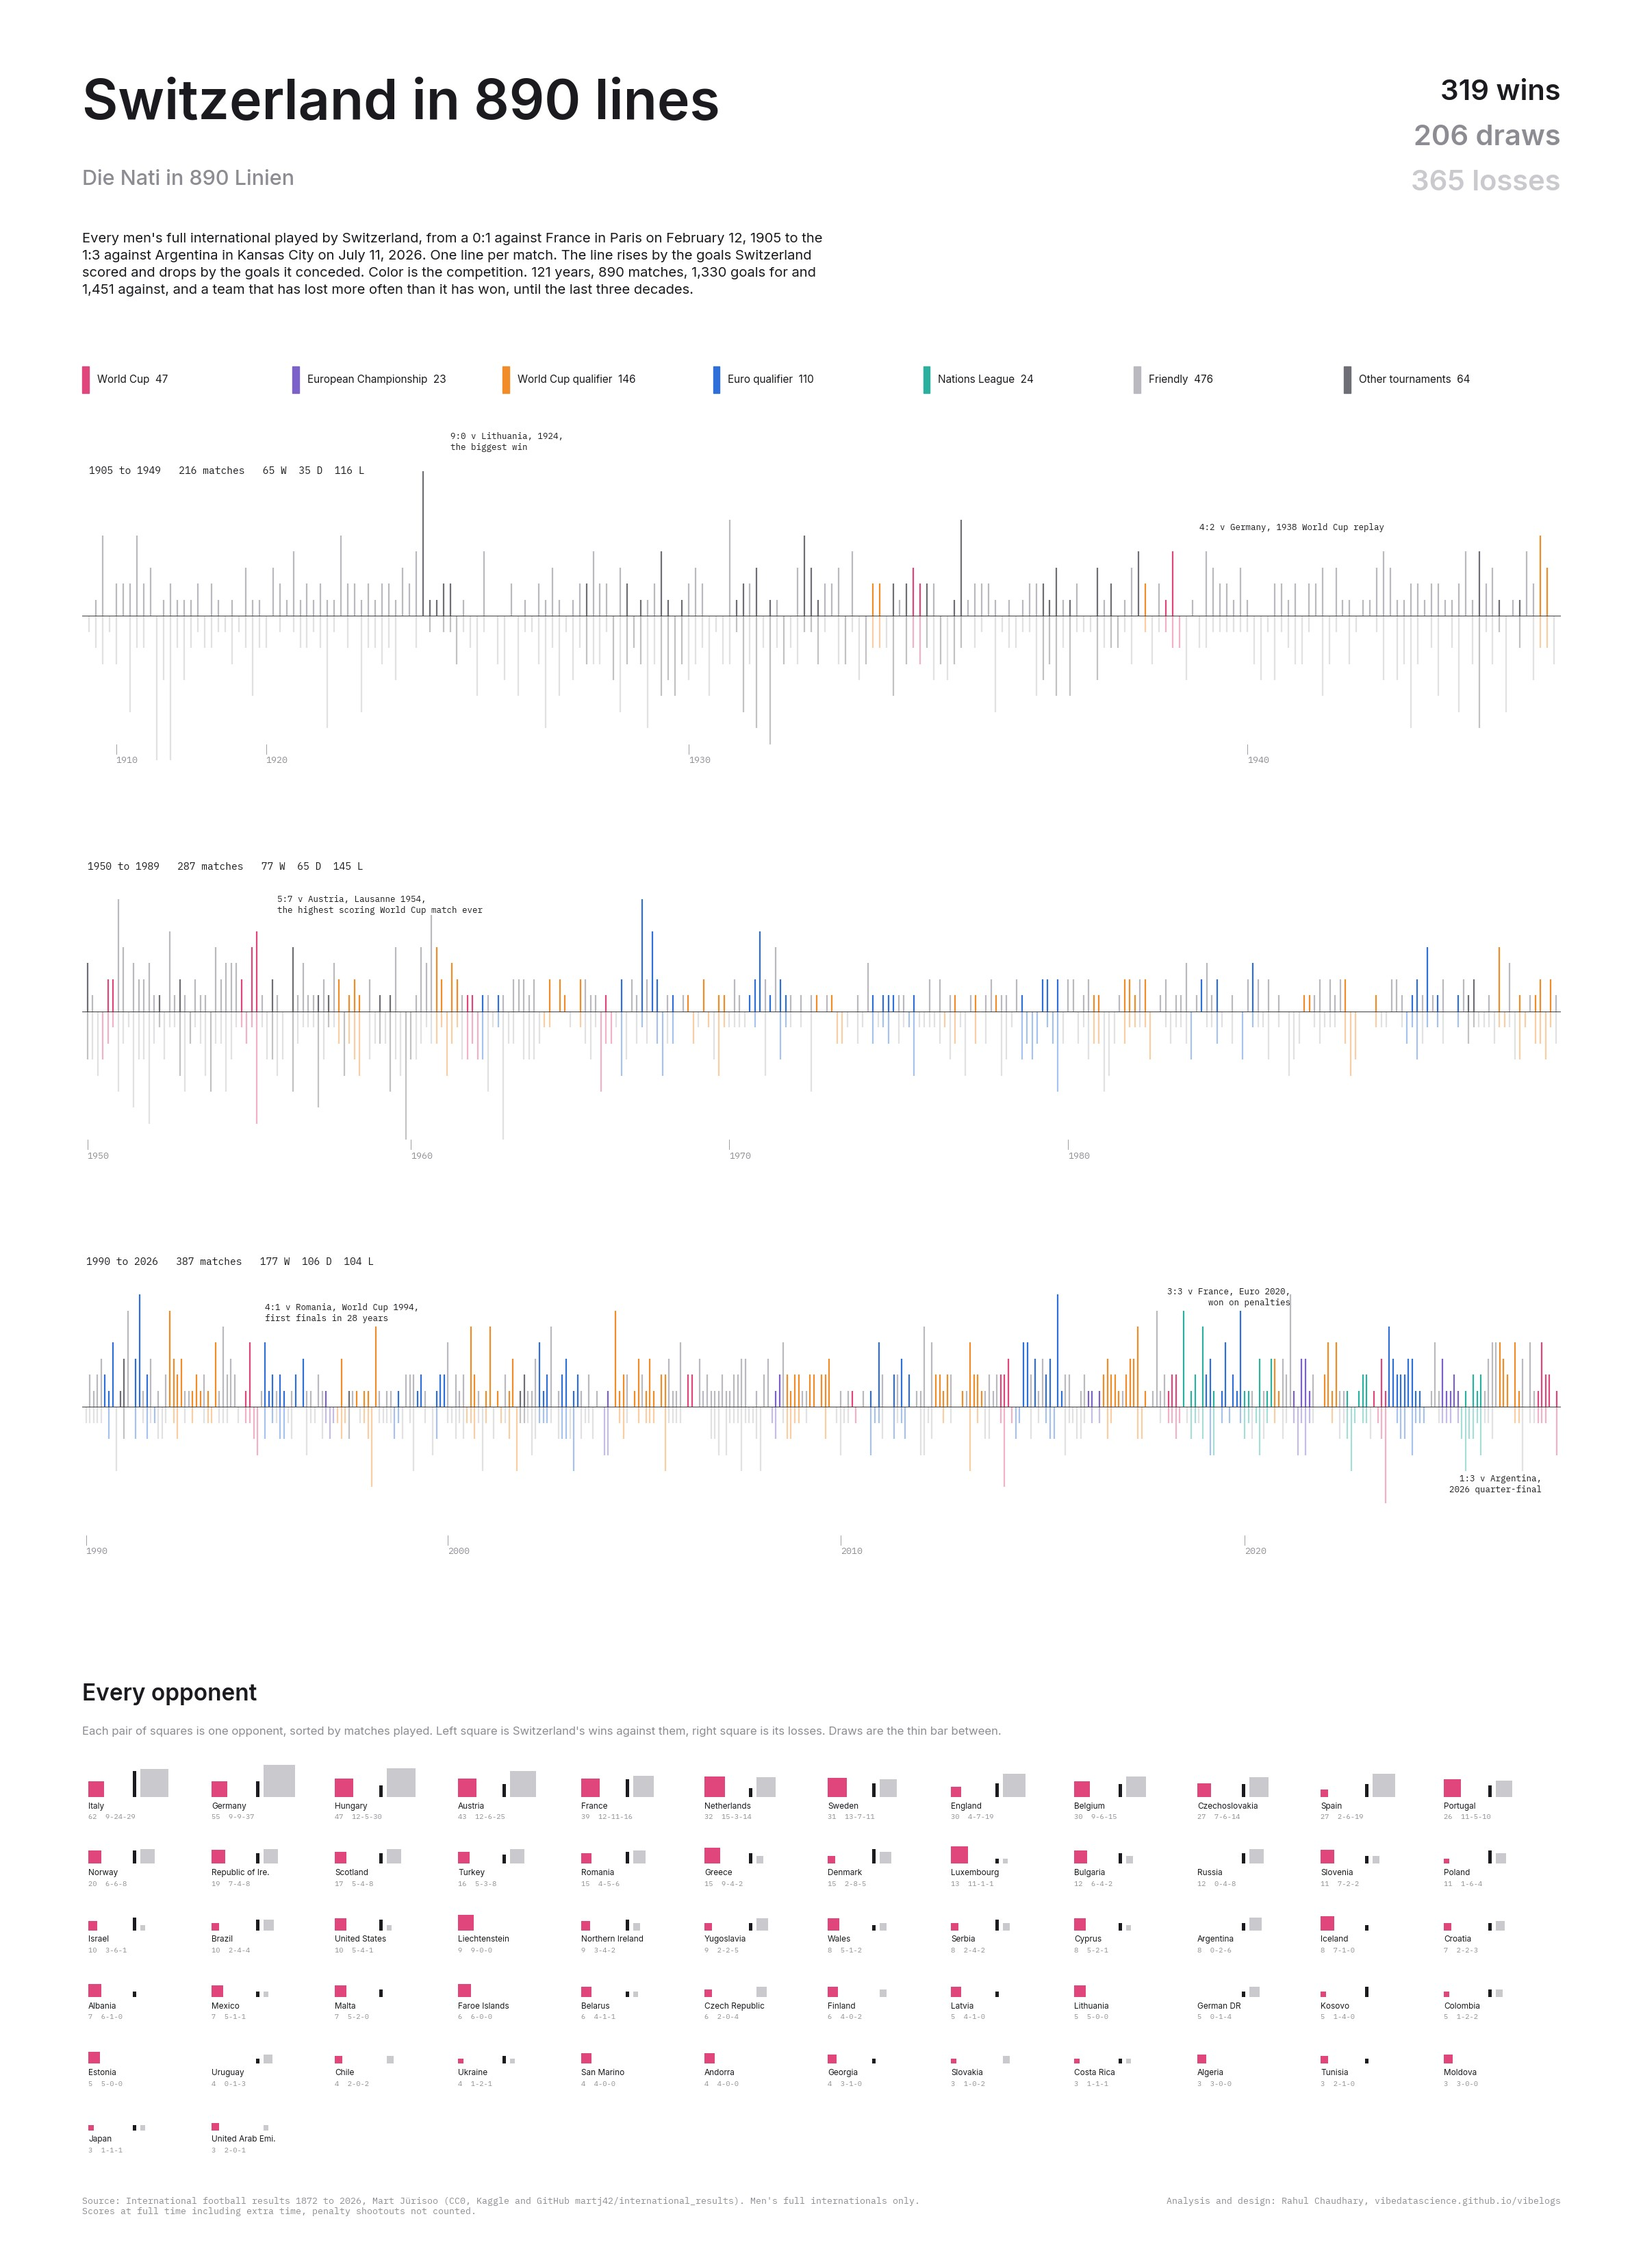
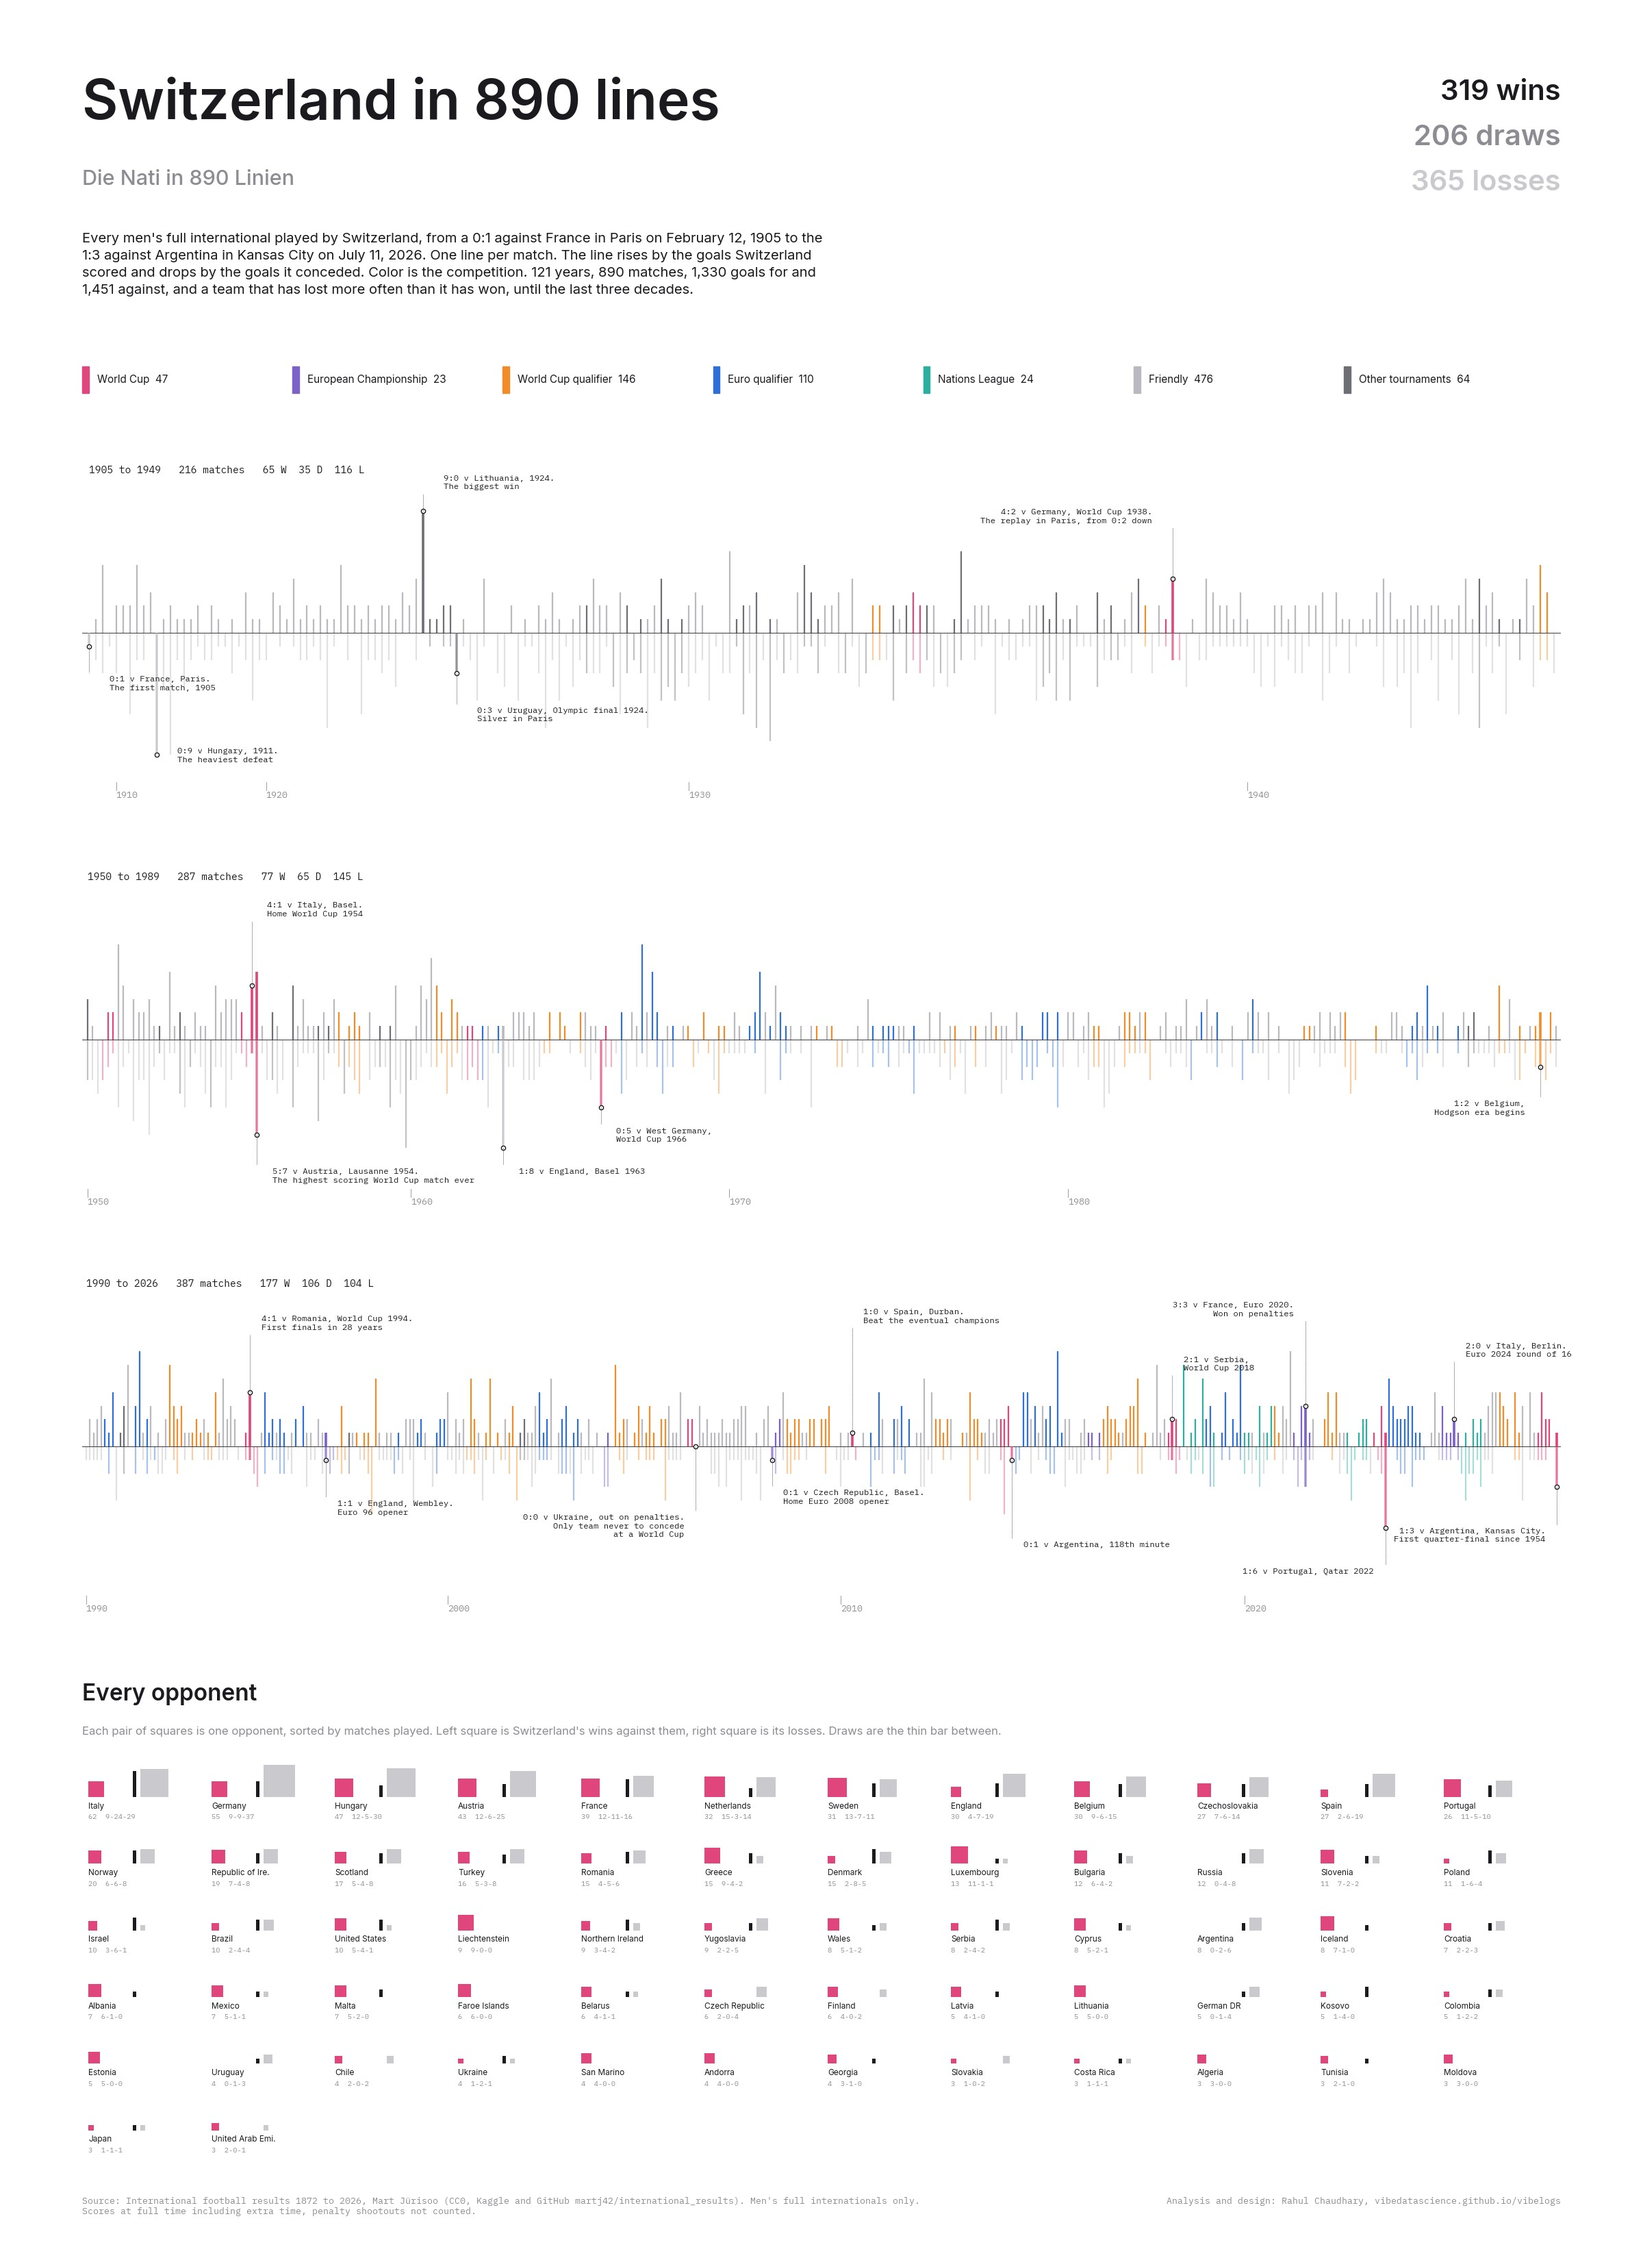
890 lines: annotate 21 iconic matches

diff --git a/posts/2026-09-15-switzerland-in-890-lines/index.html b/posts/2026-09-15-switzerland-in-890-lines/index.html
@@ -53,7 +53,7 @@ footer a{color:var(--muted)}
 <p class="note">890 matches, 319 wins, 206 draws, 365 losses, 1,330 goals for, 1,451 against. Source: Mart Jürisoo, International football results 1872 to 2026 (CC0).</p>
 
 <h2>What the lines show</h2>
-<p>The three strips split the record into 1905 to 1949, 1950 to 1989, and 1990 to 2026. The first two are dominated by grey friendlies and by lines that drop further than they rise: Switzerland lost 116 of its first 216 matches and 145 of the next 287. The third strip flips. Since 1990 the team has won 177 and lost 104, the friendlies thin out, and the colored lines of World Cup and Euro qualifiers take over the page. The 2026 World Cup run, six matches ending in Kansas City, is the last cluster of pink at the right edge.</p>
+<p>Twenty-one matches are marked along the strips, from the 0:1 in Paris in 1905 and the 0:9 in Budapest in 1911 through the 1924 Olympic final, the 1938 replay against Germany, the 5:7 in Lausanne, the 1:0 over Spain in Durban, the 3:3 with France in Bucharest, and the 2026 quarter-final in Kansas City. The three strips split the record into 1905 to 1949, 1950 to 1989, and 1990 to 2026. The first two are dominated by grey friendlies and by lines that drop further than they rise: Switzerland lost 116 of its first 216 matches and 145 of the next 287. The third strip flips. Since 1990 the team has won 177 and lost 104, the friendlies thin out, and the colored lines of World Cup and Euro qualifiers take over the page. The 2026 World Cup run, six matches ending in Kansas City, is the last cluster of pink at the right edge.</p>
 
 <p>The glyph grid at the bottom borrows the square-pair form Hahn+Zimmermann used for their Women in Politics poster, which took silver at the Swiss Viz Awards 2025. Each opponent gets two squares: the pink one is Swiss wins against them, the grey one is Swiss losses, and the thin bar between is draws. Italy, Germany and Hungary have been the most frequent opponents, and against all three the grey square is bigger.</p>
 
